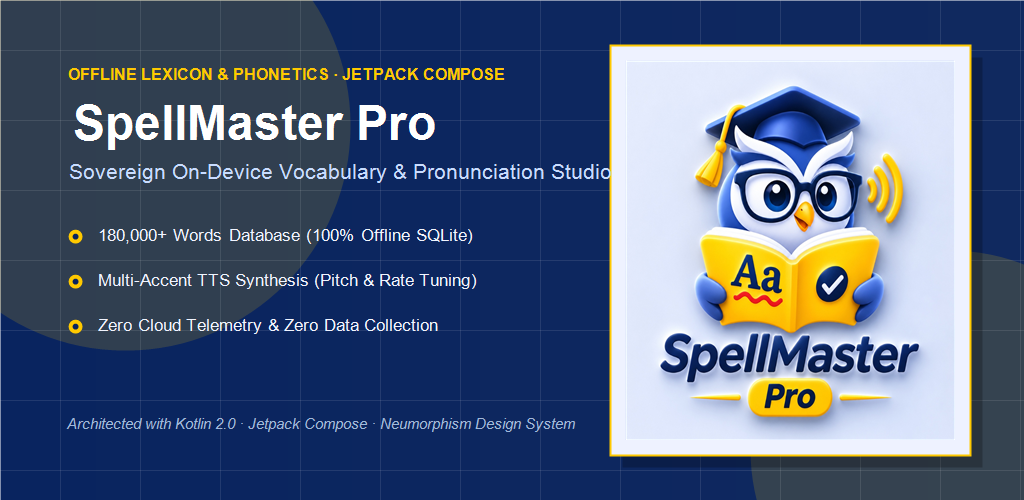
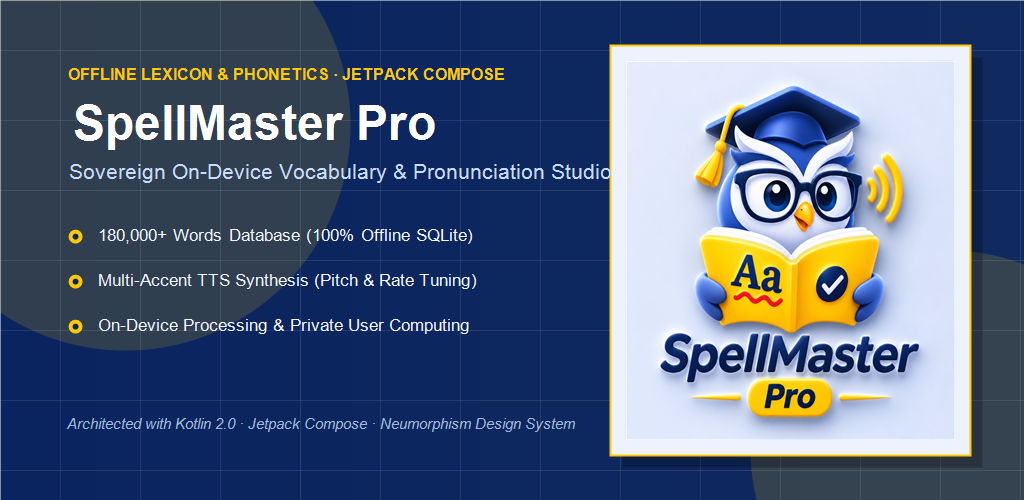
docs: update SpellMaster Pro privacy policy with AdMob details and contact email

Changed region(s): [[0.0938, 0.63, 0.4688, 0.66]]

diff --git a/spellmaster-pro/index.html b/spellmaster-pro/index.html
@@ -9,6 +9,7 @@
       --primary: #09245F;
       --primary-dark: #051433;
       --accent: #FFC900;
+      --accent-warm: #FFD83D;
       --text: #10295F;
       --text-muted: #536b9e;
       --bg: #EEF2FF;
@@ -17,17 +18,17 @@
     }
     body {
       font-family: -apple-system, BlinkMacSystemFont, "Segoe UI", Roboto, Helvetica, Arial, sans-serif;
-      line-height: 1.65;
+      line-height: 1.7;
       color: var(--text);
       background-color: var(--bg);
       margin: 0;
       padding: 40px 20px;
     }
     .container {
-      max-width: 800px;
+      max-width: 820px;
       margin: 0 auto;
       background: var(--card);
-      padding: 44px;
+      padding: 48px;
       border-radius: 20px;
       border: 1px solid var(--border);
       box-shadow: 0 10px 30px rgba(9, 36, 95, 0.08);
@@ -78,7 +79,7 @@
     h2 {
       color: var(--primary);
       font-size: 18px;
-      margin-top: 32px;
+      margin-top: 34px;
       border-left: 4px solid var(--accent);
       padding-left: 12px;
       font-weight: 700;
@@ -127,7 +128,7 @@
       font-family: monospace;
     }
     footer {
-      margin-top: 44px;
+      margin-top: 48px;
       padding-top: 24px;
       border-top: 1px solid var(--border);
       font-size: 13px;
@@ -155,63 +156,81 @@
       <img src="../assets/images/spellmaster_icon.png" alt="SpellMaster Pro Logo">
       <div>
         <h1>Privacy Policy for SpellMaster Pro</h1>
-        <div class="meta-date">Application ID: <code>com.devang.spellmaster.pro</code> &bull; Effective Date: November 14, 2026</div>
-        <span class="badge-pill">100% On-Device Architecture</span>
+        <div class="meta-date">Application ID: <code>com.devang.spellmaster.pro</code> &bull; Effective Date: November 14, 2026 &bull; Last Updated: November 14, 2026</div>
+        <span class="badge-pill">On-Device Lexicon &amp; User Privacy</span>
       </div>
     </div>
 
     <div class="highlight-box">
-      <p><strong>Executive Summary:</strong> SpellMaster Pro is engineered as a privacy-first educational tool. With an embedded offline lexicon of 180,000+ words, on-device speech synthesis, and zero telemetry SDKs, your input, queries, voice, and translations are strictly private. We do not track, log, profile, transmit, or monetize your personal information.</p>
+      <p><strong>Executive Summary:</strong> SpellMaster Pro is designed to help users improve English spelling, pronunciation, vocabulary, and writing clarity. Core linguistic calculations—including spell checks, candidate suggestions, and speech synthesis—execute locally on your device via an embedded SQLite lexicon and Android's native Text-to-Speech engine. We do not sell, harvest, or log your personal text, search queries, or voice dictations. To support ongoing maintenance, continuous development, and free access, the application integrates industry-standard advertising through Google AdMob in full compliance with Google Play Developer Policies.</p>
     </div>
 
-    <h2>1. Zero Tracking & No Data Harvesting</h2>
-    <ul>
-      <li><strong>No Personal Identifiers:</strong> SpellMaster Pro does not collect, log, transmit, or store your name, email, phone number, device IMEI, Android ID, Advertising ID (GAID), or GPS location.</li>
-      <li><strong>No Keystroke Logging:</strong> All typed queries, spell checks, and dictionary lookups are processed strictly in volatile device memory and discarded immediately after use.</li>
-      <li><strong>Zero Advertising & Analytics SDKs:</strong> The application contains <strong>zero third-party ad networks</strong> (no AdMob, AppLovin, Unity) and <strong>zero analytics SDKs</strong> (no Firebase Analytics, Adjust, AppsFlyer, or Facebook SDK).</li>
-    </ul>
+    <h2>1. Introduction &amp; Applicability</h2>
+    <p>This Privacy Policy describes how <strong>SpellMaster Pro</strong> ("we", "us", "our", or "the Application"), developed by <strong>Devang Bhumbhaliya Babubhai</strong>, collects, processes, protects, and discloses information when you use our Android mobile application. We are committed to transparency and to complying with the <strong>Google Play Developer Distribution Agreement</strong>, <strong>Google Play User Data Policies</strong>, the General Data Protection Regulation (<strong>GDPR</strong>), the California Consumer Privacy Act (<strong>CCPA</strong>), and the Children's Online Privacy Protection Act (<strong>COPPA</strong>).</p>
 
-    <h2>2. 100% On-Device Local Processing</h2>
+    <h2>2. Information We Process &amp; On-Device Operations</h2>
+    <p>SpellMaster Pro prioritizes on-device computation to ensure user text remains private and responsive:</p>
     <ul>
-      <li><strong>Offline Frequency Lexicon:</strong> The core spell checker relies on a local database (<code>suggestion_database.sqlite</code>) embedded directly inside the application bundle. Typo detection, candidate generation, and Levenshtein distance calculations run 100% locally on your device CPU with zero internet dependency.</li>
-      <li><strong>Pronunciation Audio Studio:</strong> Audio pronunciation is powered by Android's native on-device <code>TextToSpeech</code> engine. Speech rate, pitch, and accent synthesis execute locally on hardware without recording or uploading audio.</li>
+      <li><strong>Offline Frequency Lexicon:</strong> The core spell checker operates with an embedded local SQLite database (<code>suggestion_database.sqlite</code>) containing over 180,000 verified English words. Typo detection, candidate generation, and Levenshtein distance computations execute entirely on your device CPU with zero server dependency.</li>
+      <li><strong>Pronunciation Audio Studio:</strong> Audio playback is synthesized locally using Android's native on-device <code>TextToSpeech</code> service. Dialect rates, pitches, and pronunciations are processed on hardware without transmitting or saving audio files.</li>
+      <li><strong>No Keystroke Logging:</strong> Words entered into the input fields are processed in temporary volatile memory and are never recorded, profiled, or harvested.</li>
+      <li><strong>Voice Dictation:</strong> When using voice input, requests are handled directly by Android's built-in system speech recognizer (<code>RecognizerIntent.ACTION_RECOGNIZE_SPEECH</code>). The application does not record raw microphone audio, does not store voice recordings, and does not require the dangerous <code>android.permission.RECORD_AUDIO</code> permission.</li>
     </ul>
 
     <h2>3. Optional User-Initiated Network Services</h2>
-    <p>Extended features utilize public educational endpoints only when explicitly requested by the user:</p>
+    <p>Certain educational tools connect to external services only when explicitly initiated by the user:</p>
     <ul>
-      <li><strong>Smart English Dictionary:</strong> Online word definitions, synonyms, and phonetic etymologies query public educational endpoints (such as <code>api.dictionaryapi.dev</code> and <code>api.datamuse.com</code>). No user tokens, tracking cookies, or device IDs are attached to these requests. When disconnected, the app seamlessly serves definitions from its local offline vocabulary store.</li>
-      <li><strong>Speak & Translate:</strong> User-initiated translation requests are transmitted securely via encrypted HTTPS directly to translation service endpoints. We do not store, log, or profile your text on external servers.</li>
+      <li><strong>Smart English Dictionary:</strong> Online word definitions, synonyms, and phonetic etymologies query public educational endpoints (such as <code>api.dictionaryapi.dev</code> and <code>api.datamuse.com</code>). These requests do not transmit personal user identifiers, account credentials, or tracking cookies. If the device is offline, the app automatically falls back to its local definitions.</li>
+      <li><strong>Speak &amp; Translate:</strong> When you initiate text translation, the input text is transmitted securely over an encrypted HTTPS connection to translation endpoints to generate the translation. Translated phrases are not stored or profiled on remote servers.</li>
     </ul>
 
-    <h2>4. Android Device Permissions (Zero Sensitive Permissions)</h2>
-    <p>SpellMaster Pro adheres to the principle of least privilege and requires <strong>zero dangerous or sensitive permissions</strong>:</p>
+    <h2>4. Third-Party Advertising (Google AdMob)</h2>
+    <p>To support ongoing updates, lexicon improvements, and free accessibility, SpellMaster Pro may display advertisements served by <strong>Google AdMob</strong> and its certified advertising technology partners.</p>
     <ul>
-      <li><code>android.permission.INTERNET</code>: Used solely to fetch dictionary definitions and language translations upon explicit user request.</li>
-      <li><code>android.permission.ACCESS_NETWORK_STATE</code>: Used to verify network availability before attempting online lookups, enabling instant offline fallback.</li>
-      <li><code>android.permission.VIBRATE</code>: Provides tactile haptic feedback during interactive controls.</li>
-      <li><strong>Microphone Governance:</strong> Voice input is delegated entirely to Android's native system speech recognizer dialog (<code>RecognizerIntent.ACTION_RECOGNIZE_SPEECH</code>). SpellMaster Pro does not record, access, or store microphone hardware streams, and does not declare or require <code>android.permission.RECORD_AUDIO</code>.</li>
+      <li><strong>Advertising Identifiers &amp; Telemetry:</strong> In accordance with Google Play Developer Policies, Google AdMob may automatically collect and process pseudonymous identifiers, such as the Google Advertising ID (<code>AD_ID</code> / GAID), IP address, general device telemetry (device brand, model, screen resolution, operating system version), and coarse regional location. This information is used to serve relevant contextual or personalized ads, limit ad frequency, and detect invalid traffic or ad click fraud.</li>
+      <li><strong>Separation of Educational Content:</strong> Your personal input text, spell-check queries, dictionary lookups, voice inputs, and translations are NEVER shared with, exposed to, or accessible by Google AdMob or any advertising networks.</li>
+      <li><strong>User Advertising Controls &amp; Opt-Out:</strong> You have full control over interest-based advertising on Android:
+        <ul>
+          <li>You can reset or completely delete your Advertising ID at any time via your device settings: <strong>Settings &gt; Google &gt; Ads &gt; Reset or Delete advertising ID</strong>.</li>
+          <li>On Android 12 and above, deleting your advertising ID prevents apps from accessing it, ensuring you receive only contextual advertisements.</li>
+        </ul>
+      </li>
+      <li>For comprehensive information regarding how Google processes advertising data, please review <a href="https://policies.google.com/privacy" target="_blank" rel="noopener" style="color:var(--primary); font-weight:600;">Google's Privacy Policy</a> and <a href="https://policies.google.com/technologies/ads" target="_blank" rel="noopener" style="color:var(--primary); font-weight:600;">How Google uses information from sites or apps that use our services</a>.</li>
     </ul>
 
-    <h2>5. Children's Privacy (COPPA Compliance)</h2>
-    <p>SpellMaster Pro is designed for learners, students, and professionals of all ages, including children under the age of 13. The application does not collect personal data from any user, contains no behavioral profiling, and displays no external advertisements or tracking links.</p>
-
-    <h2>6. Google Play Data Safety Declaration Summary</h2>
+    <h2>5. Android Device Permissions</h2>
+    <p>SpellMaster Pro adheres to the principle of least privilege. The application requests only the permissions necessary to function:</p>
     <ul>
-      <li><strong>Data Collection:</strong> No user data is collected.</li>
-      <li><strong>Data Sharing:</strong> No user data is shared with third parties.</li>
-      <li><strong>Security Practices:</strong> All optional network lookups use industry-standard encrypted HTTPS.</li>
-      <li><strong>Data Retention & Deletion:</strong> No data is retained on external servers. All local caches can be wiped instantly by the user via standard Android Application Settings.</li>
+      <li><code>android.permission.INTERNET</code>: Enables online dictionary lookups, translation requests, and ad retrieval.</li>
+      <li><code>android.permission.ACCESS_NETWORK_STATE</code>: Checks whether the device is connected to the internet to gracefully switch between online services and offline SQLite mode.</li>
+      <li><code>android.permission.VIBRATE</code>: Provides subtle tactile haptic feedback during interactive controls and sliders.</li>
+      <li><code>com.google.android.gms.permission.AD_ID</code>: Standard permission declared in modern Android versions (API 33+) to allow Google AdMob to deliver ads in compliance with Google Play governance.</li>
+      <li><strong>No Sensitive Permissions:</strong> SpellMaster Pro does not request access to camera, microphone (<code>RECORD_AUDIO</code>), GPS location, phone state, contacts, or local file storage.</li>
     </ul>
 
-    <h2>7. Security Safeguards</h2>
-    <p>All on-device computation takes place within Android's sandboxed application execution environment. Application binaries are signed with Google Play App Signing and protected by ProGuard obfuscation rules to prevent tampering and ensure code integrity.</p>
+    <h2>6. Data Security Safeguards</h2>
+    <p>We implement multiple layers of security to protect your data:</p>
+    <ul>
+      <li>All network requests for dictionary lookups, translations, and advertisements utilize strict encrypted HTTPS (TLS) connections.</li>
+      <li>On-device computation runs within Android's sandboxed application environment, preventing unauthorized access by other applications.</li>
+      <li>The application binary is signed with Google Play App Signing and protected by ProGuard/R8 code optimization and obfuscation.</li>
+    </ul>
 
-    <h2>8. Policy Updates</h2>
-    <p>We may update this Privacy Policy periodically to reflect app enhancements or regulatory requirements. Any modifications will be posted to this official URL with a revised effective date.</p>
+    <h2>7. Children's Privacy (COPPA Compliance)</h2>
+    <p>SpellMaster Pro is designed for general audiences, students, and language learners. We do not knowingly collect personal information from children under the age of 13. When operating in family-directed modes or when required by Google Play Families Policy, ad requests are configured to request non-personalized, family-safe advertisements in compliance with COPPA and Google Play Families guidelines.</p>
 
-    <h2>9. Developer & Support Contact</h2>
-    <p>For questions, feedback, or governance inquiries regarding SpellMaster Pro, please contact:</p>
+    <h2>8. Data Retention &amp; User Rights (GDPR &amp; CCPA)</h2>
+    <p>Because SpellMaster Pro does not maintain user accounts or store personal information on remote servers, we do not retain your personal data. Users retain the following rights:</p>
+    <ul>
+      <li><strong>Local Cache Clearing:</strong> You can wipe all locally cached data, settings, and temporary lookups at any time through Android Settings &gt; Apps &gt; SpellMaster Pro &gt; Storage &gt; Clear Storage.</li>
+      <li><strong>Right to Non-Discrimination:</strong> We do not sell your personal information, and your use of SpellMaster Pro remains fully functional regardless of your privacy choices.</li>
+    </ul>
+
+    <h2>9. Changes to This Privacy Policy</h2>
+    <p>We may update this Privacy Policy from time to time to reflect feature enhancements, new releases, or regulatory modifications. Any changes will be posted directly to this URL with a revised "Last Updated" timestamp.</p>
+
+    <h2>10. Developer Contact &amp; Support</h2>
+    <p>If you have any questions, suggestions, or concerns regarding this Privacy Policy or SpellMaster Pro, please contact us directly:</p>
     <p>
       <strong>Developer:</strong> Devang Bhumbhaliya Babubhai<br>
       <strong>Email:</strong> <a href="mailto:devangrabari7072@gmail.com" style="color:var(--primary); font-weight:600;">devangrabari7072@gmail.com</a><br>
@@ -219,7 +238,7 @@
     </p>
 
     <footer>
-      &copy; 2026 SpellMaster Pro. All rights reserved. &bull;
+      &copy; 2026 SpellMaster Pro &bull; Devang Bhumbhaliya Babubhai &bull; All rights reserved. &bull;
       <a href="terms.html">Terms of Service</a> &bull;
       <a href="../">Developer Apps Hub</a>
     </footer>

diff --git a/index.html b/index.html
@@ -990,12 +990,12 @@
             <span class="plate-category">Vocabulary Intelligence · Speech Synthesis</span>
             <h3 class="plate-title">SpellMaster Pro: Word &amp; Phonetic Studio</h3>
             <p class="plate-desc">
-              Sovereign offline vocabulary, spelling verification, and multi-accent pronunciation studio. Features an embedded 180,000+ word SQLite frequency lexicon, dynamic pitch &amp; speech rate acoustic synthesis, on-device translation, and an elegant Neumorphism design system. Zero tracking SDKs.
+              Sovereign offline vocabulary, spelling verification, and multi-accent pronunciation studio. Features an embedded 180,000+ word SQLite frequency lexicon, dynamic pitch &amp; speech rate acoustic synthesis, on-device translation, and an elegant Neumorphism design system.
             </p>
             <div class="plate-specs-list">
               <div class="plate-spec-row"><span>Lexicon Engine:</span> <strong>100% Offline SQLite (180,000+ Words)</strong></div>
               <div class="plate-spec-row"><span>Acoustic Synthesis:</span> <strong>On-Device Multi-Accent TTS Engine</strong></div>
-              <div class="plate-spec-row"><span>Telemetry Footprint:</span> <strong>Zero Analytic SDKs (100% Private)</strong></div>
+              <div class="plate-spec-row"><span>Privacy Standard:</span> <strong>On-Device Processing (No Keystroke Logging)</strong></div>
             </div>
           </div>
           <div class="plate-actions">
